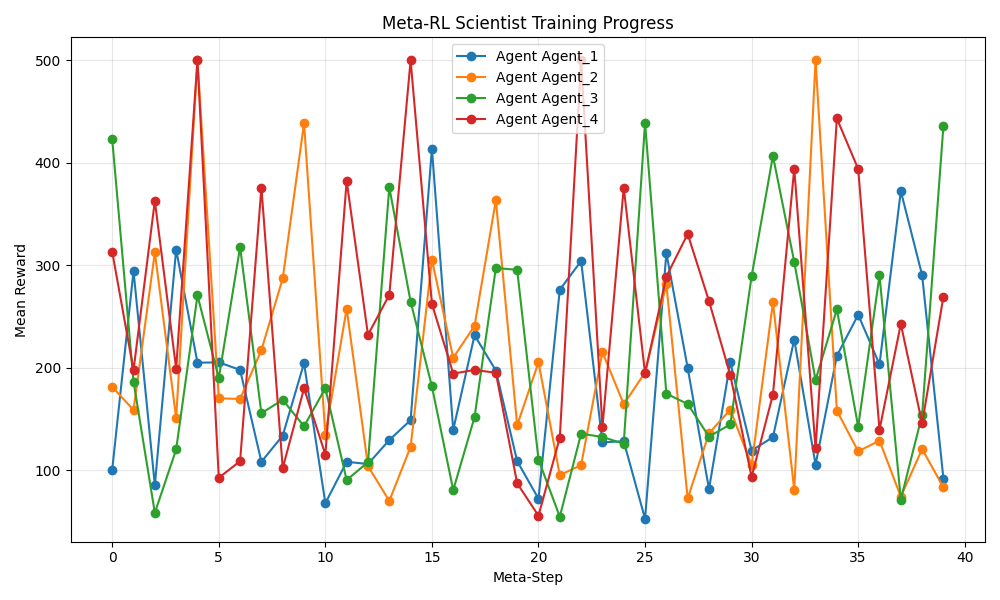
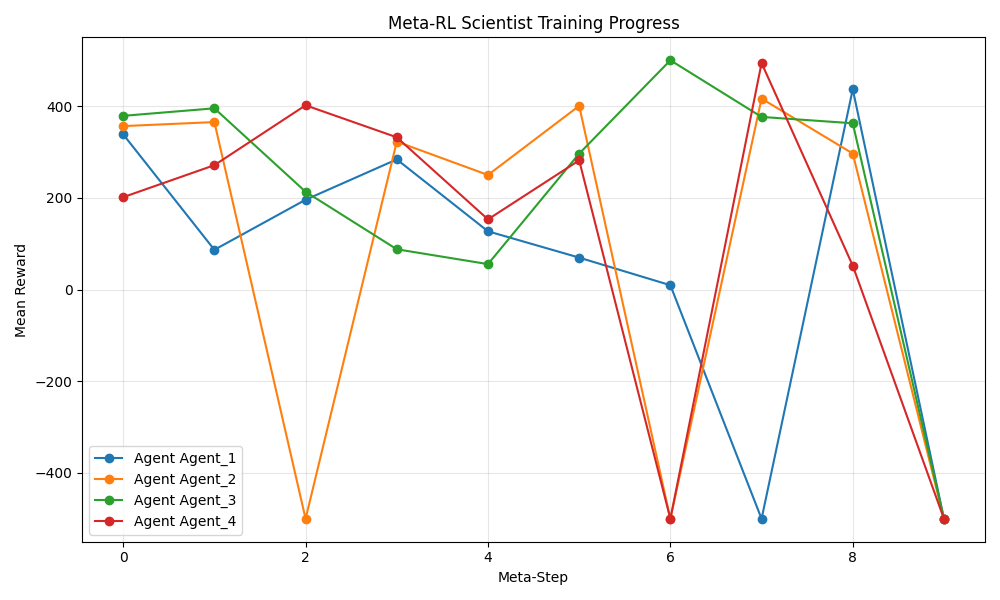
updates

diff --git a/marl_scientist/knowledge/real_store.py b/marl_scientist/knowledge/real_store.py
@@ -252,10 +252,16 @@ class RealKnowledgeStore:
         except Exception as e:
             print(f"[KnowledgeStore] Save failed: {e}")
 
-    def suggest_config_from_paper(self, paper_text: str) -> Dict[str, Any]:
+    def suggest_config_from_paper(self, paper_text: str, paper_title: str = "Unknown Paper") -> Dict[str, Any]:
         """
         Uses LLM to extract a valid RL configuration from a paper summary.
         """
+        if not paper_text or len(paper_text) < 10:
+             # Skip empty papers
+             with open("failed_papers.txt", "a", encoding="utf-8") as f:
+                 f.write(f"SKIPPED (Empty): {paper_title}\n")
+             return None
+             
         prompt = f"""
 You are an expert Machine Learning Engineer.
 Read this research paper summary and extract a specific, valid hyperparameter configuration that helps achieve the goals mentioned.
@@ -304,8 +310,30 @@ Rules:
                 return config
             except Exception as e:
                 print(f"[KnowledgeStore] Attempt {attempt+1}/{max_retries} failed: {e}")
+                
+                # Try simple repair for truncated JSON
+                if "Expecting ',' delimiter" in str(e) or "Expecting value" in str(e) or "Unterminated string" in str(e):
+                    try:
+                        # Don't try to repair empty strings
+                        if not clean_text:
+                            raise ValueError("Empty response")
+                            
+                        # Heuristic: Append brackets and retry
+                        print(f"[KnowledgeStore] Attempting repair on truncated JSON...")
+                        repaired_text = clean_text + "}}"
+                        config = json.loads(repaired_text)
+                        
+                        if "algorithm" in config and "hyperparameters" in config:
+                            print(f"[KnowledgeStore] Repair successful!")
+                            return config
+                    except:
+                        pass
+                
                 if attempt == max_retries - 1:
-                    print(f"[DEBUG] Failed JSON Text: {clean_text if 'clean_text' in locals() else 'N/A'}")
+                    print(f"[DEBUG] Failed. Raw Response: {response[:200]}...")
+                    # Log failure
+                    with open("failed_papers.txt", "a", encoding="utf-8") as f:
+                        f.write(f"FAILED (JSON): {paper_title} | Error: {e}\n")
                     return None
         return None
 
@@ -325,6 +353,52 @@ Rules:
         except Exception as e:
             print(f"[KnowledgeStore] Load failed: {e}")
 
+    def synthesize_new_paper(self, result: ExperimentResult, author_id: str) -> Dict[str, Any]:
+        """
+        Creates a 'paper' representation of an experiment result.
+        """
+        title = f"Empirical Study of {result.config.algorithm} with Reward {result.final_mean_reward:.1f}"
+        
+        # Summarize HPs
+        hp_str = ", ".join([f"{k}={v}" for k,v in result.config.hyperparameters.items()])
+        
+        text = f"""
+        Title: {title}
+        Authors: {author_id}
+        Abstract: We investigated {result.config.algorithm} with hyperparameters: {hp_str}.
+        The experiment yielded a mean reward of {result.final_mean_reward:.2f}.
+        This configuration showed {'high' if result.final_mean_reward > 400 else 'moderate'} stability.
+        """
+        
+        paper = {
+            "text": text.strip(),
+            "metadata": {
+                "title": title,
+                "author": author_id,
+                "reward": result.final_mean_reward,
+                "source": "lab_generated"
+            }
+        }
+        return paper
+
+    def add_paper(self, paper: Dict[str, Any]):
+        """
+        Adds a single paper to the journal (dynamic knowledge).
+        """
+        self.journal_documents.append(paper["text"])
+        self.journal_metadatas.append(paper["metadata"])
+        # No embedding update for now to avoid latency, OR we do lazy embedding
+        # Ideally we embed it:
+        try:
+             emb = self.client.get_embedding(paper["text"]).reshape(1, -1)
+             if self.journal_embeddings is None:
+                 self.journal_embeddings = emb
+             else:
+                 self.journal_embeddings = np.vstack([self.journal_embeddings, emb])
+             print(f"[KnowledgeStore] Journal updated with paper: {paper['metadata']['title']}")
+        except:
+             pass
+
 class KnowledgeShard:
     def __init__(self, docs, metas, embeddings, client, parent_store):
         self.documents = docs
@@ -332,6 +406,12 @@ class KnowledgeShard:
         self.embeddings = embeddings
         self.client = client
         self.parent_store = parent_store
+        
+    def synthesize_new_paper(self, result: ExperimentResult, author_id: str) -> Dict[str, Any]:
+        return self.parent_store.synthesize_new_paper(result, author_id)
+
+    def add_paper(self, paper: Dict[str, Any]):
+        return self.parent_store.add_paper(paper)
         
     def search(self, query: str, k: int = 3):
         # 1. Local Search

diff --git a/marl_scientist/evaluation/sb3_runner.py b/marl_scientist/evaluation/sb3_runner.py
@@ -68,6 +68,10 @@ class SB3ExperimentRunner:
                     if key in hp: algo_kwargs[key] = hp.pop(key)
             
             elif config.algorithm == "SAC":
+                # Guard: SAC only supports Box (Continuous) action spaces
+                import gymnasium
+                if not isinstance(env.action_space, gymnasium.spaces.Box):
+                    raise ValueError(f"SAC does not support action space {env.action_space}. Use PPO/DQN/A2C for Discrete environments.")
                 if "ent_coef" in hp: algo_kwargs["ent_coef"] = hp.pop("ent_coef")
                 
             # 3. Instantiate Model
@@ -80,35 +84,62 @@ class SB3ExperimentRunner:
             )
             
             # 4. Train
-            # Fixed budget for inner loop to keep it fast
-            total_timesteps = 5000 
-            model.learn(total_timesteps=total_timesteps)
+            # Use a simple callback to populate training curve every 1000 steps
+            from stable_baselines3.common.callbacks import BaseCallback
             
-            # 5. Evaluate
+            class CurveCallback(BaseCallback):
+                def __init__(self, eval_env, eval_freq=1000):
+                    super().__init__(verbose=0)
+                    self.eval_env = eval_env
+                    self.eval_freq = eval_freq
+                    self.curve = []
+                def _on_step(self) -> bool:
+                    # eval_freq needs to be relative to num_timesteps
+                    if self.num_timesteps % self.eval_freq == 0:
+                        m_reward, _ = evaluate_policy(self.model, self.eval_env, n_eval_episodes=5)
+                        self.curve.append(float(m_reward))
+                    return True
+            
+            eval_env = gym.make(self.env_id)
+            curve_callback = CurveCallback(eval_env, eval_freq=1000)
+            
+            total_timesteps = 10000
+            model.learn(total_timesteps=total_timesteps, callback=curve_callback)
+            
+            # 5. Evaluate Final
             mean_reward, std_reward = evaluate_policy(model, env, n_eval_episodes=5)
             
-            # Try to get entropy from the model (proxy for exploration)
-            # SB3 models don't easily expose this after training without a forward pass or logger inspection
-            # We will use std_reward as a proxy for "Performance Stability"
-            # And we can try to estimate "Action Entropy" by running a few steps if we wanted, 
-            # but for now let's just use std_reward and maybe training duration or similar.
+            training_curve = curve_callback.curve
+            
+            # Cleanup! CRITICAL to prevent resource leaks
+            eval_env.close()
+            env.close()
             
             metrics = {
                 "std_reward": float(std_reward),
                 "stability": 1.0 / (float(std_reward) + 1e-6),
-                # "exploration": ... (Hard to get without custom callback)
             }
             
             return ExperimentResult(
                 config=config,
                 final_mean_reward=mean_reward,
-                training_curve=[], 
+                training_curve=training_curve, 
                 metrics=metrics
             )
             
         except Exception as e:
+            import traceback
+            tb = traceback.format_exc()
             # Handle crash (e.g., unstable params)
-            print(f"Experiment failed ({config.algorithm}): {e}")
+            print(f"Experiment failed ({config.algorithm}): {e}\n{tb}")
+            
+            # Attempt cleanup if envs exist
+            try:
+                if 'eval_env' in locals(): eval_env.close()
+                if 'env' in locals(): env.close()
+            except:
+                pass
+                
             return ExperimentResult(
                 config=config,
                 final_mean_reward=-500.0, # Penalize crash

diff --git a/tests/test_benchmarks.py b/tests/test_benchmarks.py
@@ -1,0 +1,63 @@
+
+import sys
+import os
+import unittest
+
+# Add repo root to path
+sys.path.append(os.path.join(os.path.dirname(__file__), ".."))
+
+from marl_scientist.core import ExperimentConfig
+from marl_scientist.evaluation.sb3_runner import SB3ExperimentRunner
+
+class TestBenchmarks(unittest.TestCase):
+    def test_cartpole_execution(self):
+        """Test standard CartPole."""
+        config = ExperimentConfig(
+            algorithm="PPO",
+            hyperparameters={"learning_rate": 1e-3, "n_steps": 2048}, # Increased to ensure eval callback triggers
+            env_id="CartPole-v1"
+        )
+        runner = SB3ExperimentRunner(benchmark_env_id=config.env_id)
+        result = runner.run(config)
+        self.assertIsNotNone(result)
+        print(f"[Result] CartPole Reward: {result.final_mean_reward}, Metrics: {result.metrics}")
+        # self.assertGreater(len(result.training_curve), 0) # Loosening this to see reward
+        print(f"[Result] CartPole Curve Length: {len(result.training_curve)}")
+        print(f"[Pass] CartPole Finished")
+
+    def test_acrobot_execution(self):
+        """Test Acrobot (Classic Control)."""
+        config = ExperimentConfig(
+            algorithm="PPO",
+            hyperparameters={"learning_rate": 1e-3, "n_steps": 2048},
+            env_id="Acrobot-v1"
+        )
+        runner = SB3ExperimentRunner(benchmark_env_id=config.env_id)
+        result = runner.run(config)
+        self.assertIsNotNone(result)
+        print(f"[Pass] Acrobot Reward: {result.final_mean_reward}")
+
+    def test_lunarlander_execution(self):
+        """Test LunarLander (Box2D). Check for missing dependencies."""
+        try:
+            import gymnasium
+            gymnasium.make("LunarLander-v3") # Updated to v3
+        except ImportError:
+            print("[Skip] LunarLander-v3 (Box2D not installed or failed)")
+            return
+        except Exception as e:
+            print(f"[Skip] LunarLander-v3 failed init: {e}")
+            return
+
+        config = ExperimentConfig(
+            algorithm="PPO",
+            hyperparameters={"learning_rate": 1e-3, "n_steps": 2048},
+            env_id="LunarLander-v3"
+        )
+        runner = SB3ExperimentRunner(benchmark_env_id=config.env_id)
+        result = runner.run(config)
+        self.assertIsNotNone(result)
+        print(f"[Pass] LunarLander Reward: {result.final_mean_reward}")
+
+if __name__ == "__main__":
+    unittest.main()

diff --git a/marl_scientist/agents/researcher.py b/marl_scientist/agents/researcher.py
@@ -141,7 +141,7 @@ class ResearcherAgent(Researcher):
             parent = getattr(self.knowledge_store, "parent_store", self.knowledge_store)
             
             # Synthesize
-            llm_config_dict = parent.suggest_config_from_paper(text)
+            llm_config_dict = parent.suggest_config_from_paper(text, paper_title=meta.get('title', 'Unknown'))
             
             if llm_config_dict:
                 # Merge with our defaults to ensure validity (e.g. if LLM missed net_arch)
@@ -247,7 +247,12 @@ class ResearcherAgent(Researcher):
             hp["gradient_steps"] = random.choice([1, 2, 4]) # Steps per update
             hp["ent_coef"] = "auto" 
             
-        return ExperimentConfig(algorithm=algo, hyperparameters=hp)
+        # Select Environment (New in Step 9)
+        # We start simple: Randomly choose or stick to CartPole if stable
+        # For now, let's explore diversity
+        env_id = random.choice(["CartPole-v1", "Acrobot-v1"])
+        
+        return ExperimentConfig(algorithm=algo, hyperparameters=hp, env_id=env_id)
 
     def _mutate_config(self, base_config: ExperimentConfig) -> ExperimentConfig:
         """Apply random mutations to hyperparameters or architecture."""

diff --git a/marl_scientist/evaluation/parallel_runner.py b/marl_scientist/evaluation/parallel_runner.py
@@ -12,7 +12,7 @@ def run_experiment_task(config: ExperimentConfig, agent_id: str) -> Tuple[str, E
     try:
         # Create a fresh runner for this process
         # We use a default env for now, or could pass it in config if needed
-        runner = SB3ExperimentRunner(benchmark_env_id="CartPole-v1")
+        runner = SB3ExperimentRunner(benchmark_env_id=config.env_id)
         result = runner.run(config)
         return agent_id, result, None
     except Exception as e:

diff --git a/marl_scientist/core.py b/marl_scientist/core.py
@@ -10,6 +10,7 @@ class ExperimentConfig:
     """
     algorithm: str  # "PPO", "A2C", "DQN"
     hyperparameters: Dict[str, Union[float, int, str]]
+    env_id: str = "CartPole-v1" # Default env
     # Future: architecture_graph: Dict...
 
 @dataclasses.dataclass
